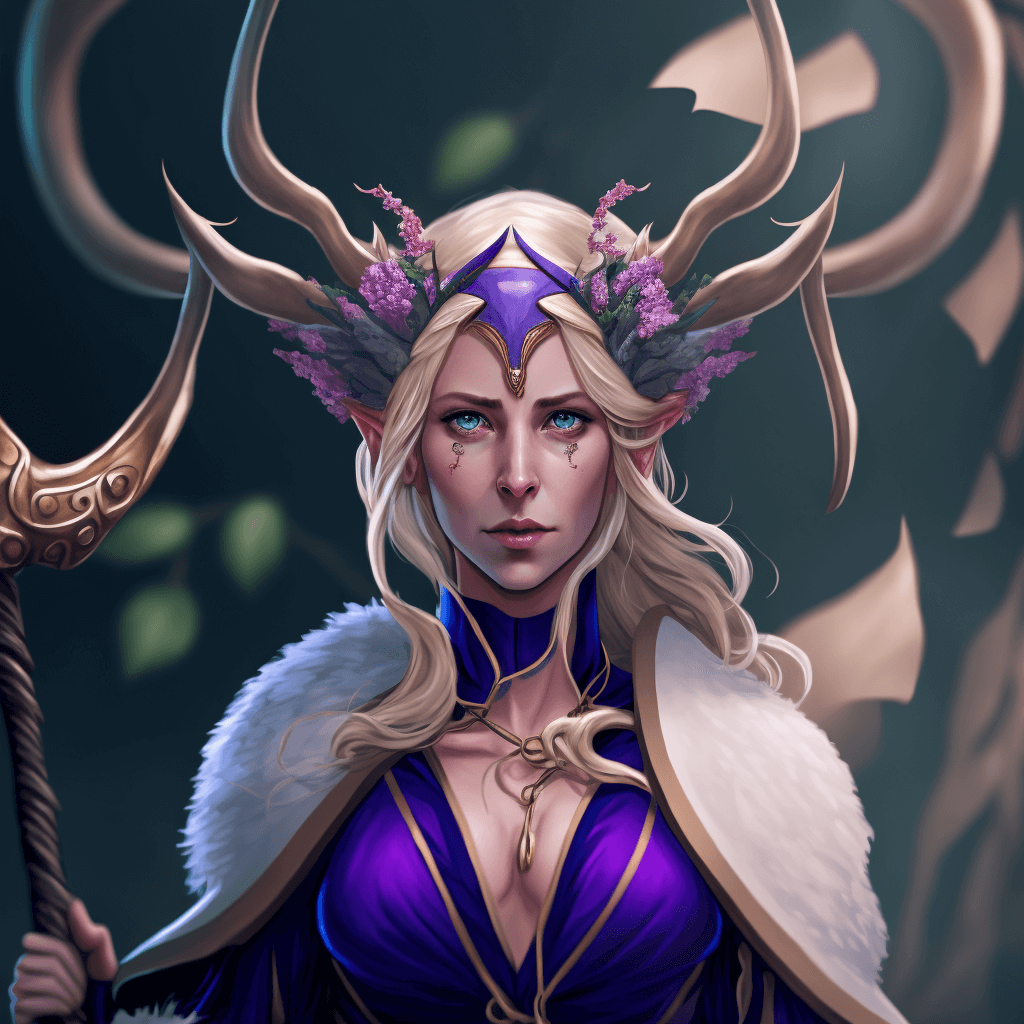
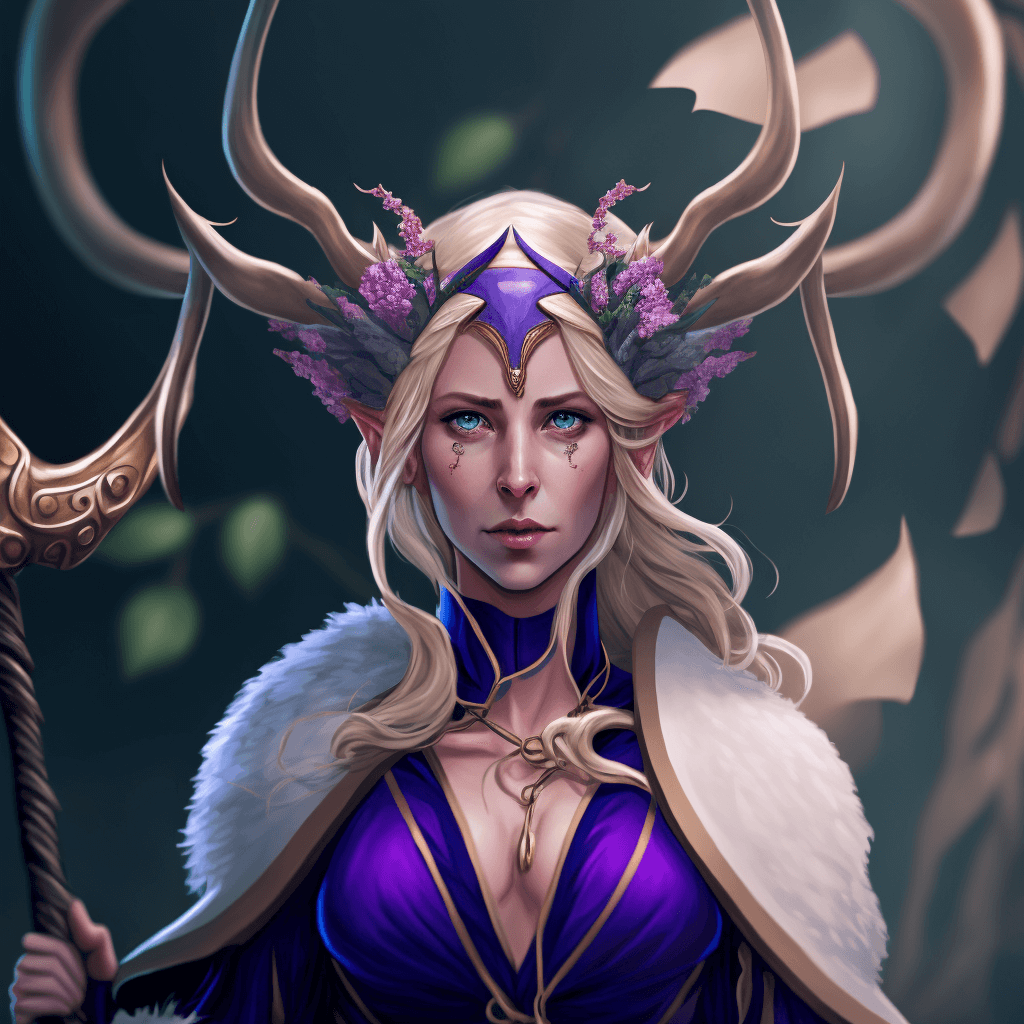
Update deity images
Fix Jenelius' horn
Update Modgo, Veri, Vihi & path
Update Afez

Changed region(s): [[0.125, 0.2812, 0.2188, 0.5], [0.5, 0.25, 0.5312, 0.2812]]

diff --git a/dnd/dnd-lore.html b/dnd/dnd-lore.html
@@ -82,7 +82,7 @@
             <ul class="hoverimage">Lcaoc: God of wit, right side of Mceeju. Undisputed lord of the Outer Planes. Even though people does not pray to him, any being that has an order or a way of thinking and functioning give power to Lcaoc. Also mentioned as the God of civilization. He promotes united work towards a single work and sets in place laws to keep his followers undistracted from ever moving forward.<i>Knowledge</i></ul>
             <img class="hide" src="./min_images/Lcaoc.jpg">
             <ul class="hoverimage">Veri: Goddess of life, sister responsible from Iz. The most widespread worshipped deity. Her light heals the sick and grows the crops. She is a beacon of hope and freedom. Her servants spread charity and goodwill while hunting the undead. Her being responsible of the plane Iz, is the reason she is an overdeity.<i>Life, Tempest</i></ul>
-            <img class="hide" src="./min_images/Veri.jpg">
+            <img class="hide" src="./min_images/Veri.png">
         </div>
         <hr>
         <!-- GGods -->
@@ -102,7 +102,7 @@
             <ul class="hoverimage">Pwazo: Dark Goddess of flames, of tyrannical control, believed to be the lord of Underworld. Creatures inhabiting the Underworld usually pray to their ruler. Known for the ambition and cruel dispositions.<i>Trickery</i></ul>
             <img class="hide" src="./min_images/Pwazo.jpg">
             <ul class="hoverimage">Vihi: Goddess of love and affection, sister responsible from Iz. Vihi's church also specializes in beauty products, help people be more charming, teach how to seduce and more. Everyone wants to be charming, therefore the size of worshippers are massive.<i>Life, Light</i></ul>
-            <img class="hide" src="./min_images/Vihi.jpg">
+            <img class="hide" src="./min_images/Vihi.png">
             <ul class="hoverimage">Naahv: God of death. The Unavoidable. Judges souls in the City of Judgement and sends them to a respective plane. If the soul is faithless, they get cast away at the wall of souls, that make up the walls of the City of Judgement.<i>Death</i></ul>
             <img class="hide" src="./min_images/Naahv.jpg">
             <ul class="hoverimage">Moradin: Values wisdom and virtue as highly as gold. The allfather god of the Dwarves encourages the two simple desires of all Dwarves. A good heart beneath your forge and a family warmed by it.<i>Knowledge, Tempest</i></ul>
@@ -129,7 +129,7 @@
             <ul class="hoverimage">Fexyiaf: Goddess of villains. Deception and destruction flow through Fexyiaf. Power to obliterate enemies. People that want something destroyed. Besides these people, there is Evocation.<i>Trickery</i></ul>
             <img class="hide" src="./min_images/Fexyiaf.jpg">
             <ul class="hoverimage">Modgo: God of curses. While most wouldn't pray to him, the ones seeking control and domination in a competitive environment usually follow his ways. This is why Modgo has churches and temples as an evil, intermediate god.<i>Trickery, War</i></ul>
-            <img class="hide" src="./min_images/Modgo.jpg">
+            <img class="hide" src="./min_images/Modgo.png">
             <ul class="hoverimage">Wiob: Hero of the moon, believed to oversee the Inner Planes. Shines light at night to all who need it. Browses stars for who seek it and navigates the ones that are lost. Wiob always answers to a call for help and will always respond. <b>Picking him is not allowed.</b><i>Light</i></ul>
             <img class="hide" src="./min_images/Wiob.jpg">
             <ul class="hoverimage">Wodroh: God of murder. Him and his followers are dedicated to one cause; unnatural ending of the mortal life. Truly evil deity who delights in simple pleasures. Torture and slavery. The crawling king of the underdark represents all the more menacing dark aspects of the underdark itself and the cruelty that has shaped its people.<i>Death</i></ul>
